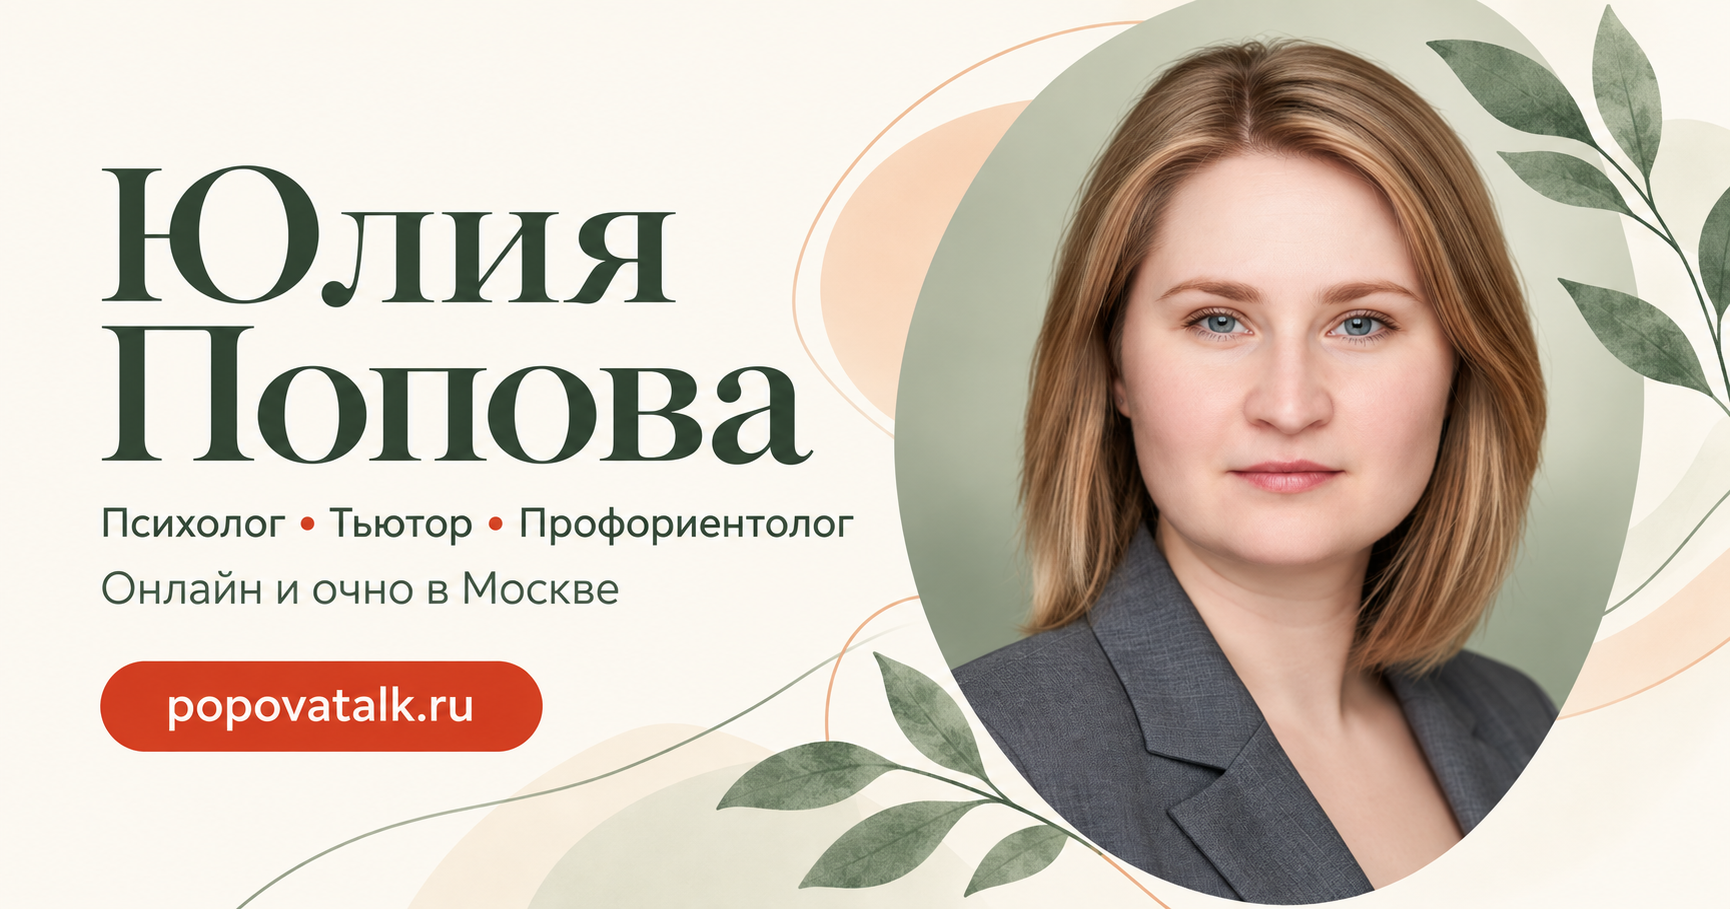
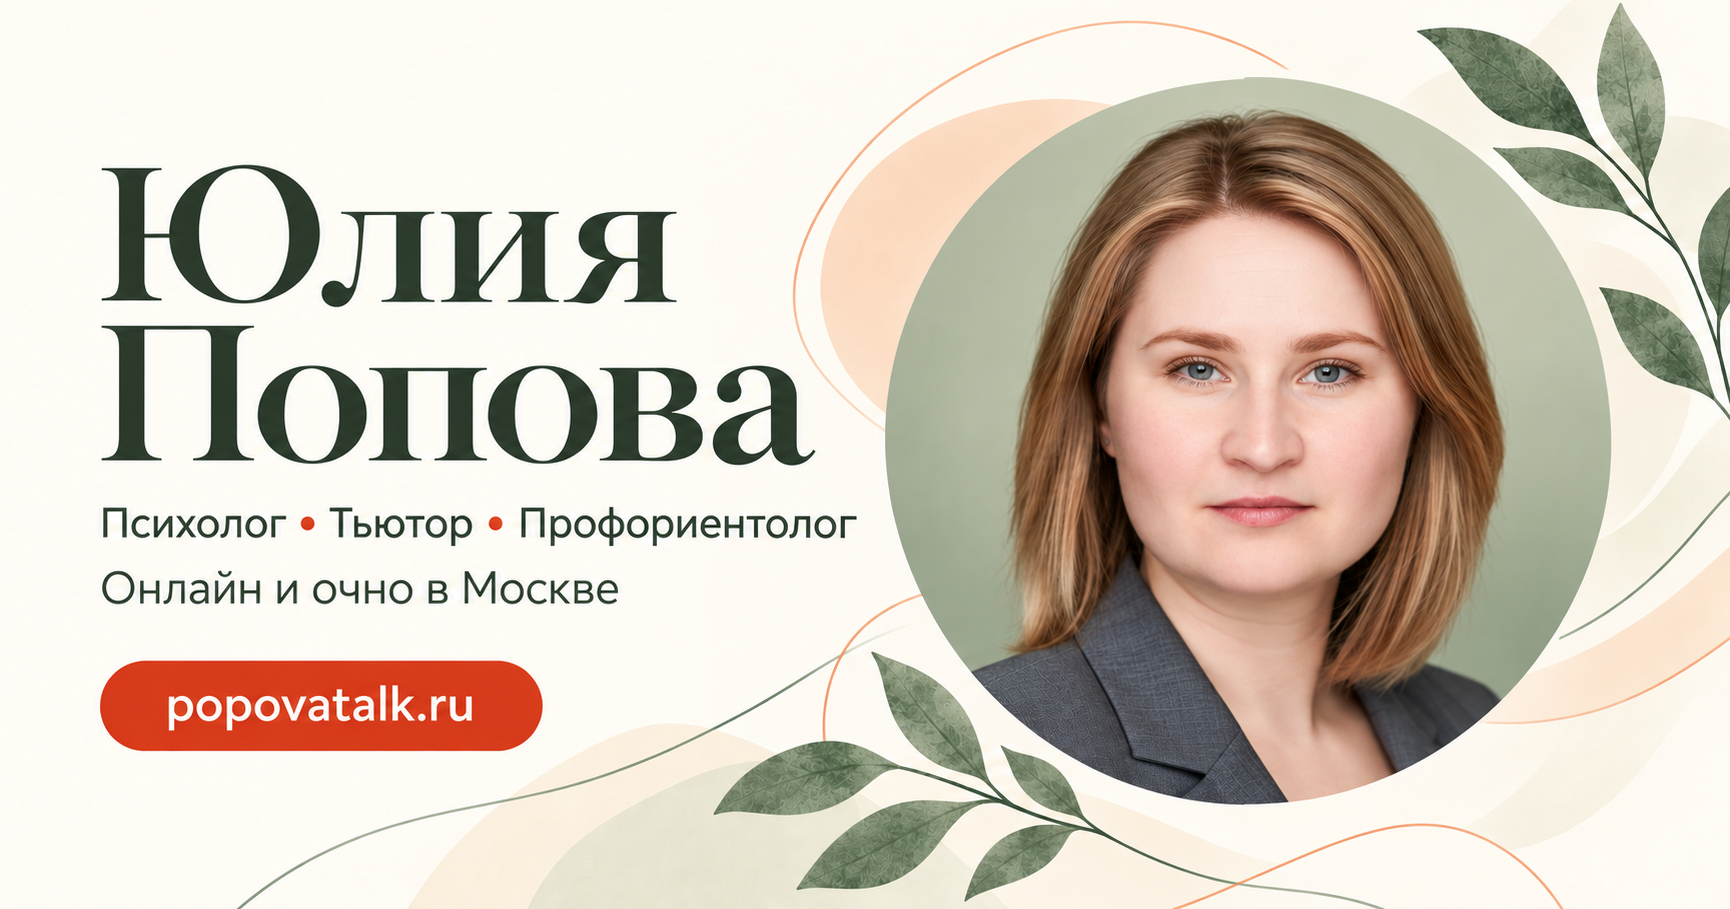
Use circular portraits and botanical artwork on the site and social cards

diff --git a/src/components/Hero.jsx b/src/components/Hero.jsx
@@ -27,10 +27,12 @@ export default function Hero() {
                             <span className="ml-2 max-w-32 text-xs leading-relaxed text-neutral-600">Начать можно<br />с простого сообщения</span>
                         </div>
                     </motion.div>
-                    <motion.div initial={false} animate={{ opacity: 1, y: 0 }} transition={{ duration: 0.7, delay: 0.15 }} className="relative mx-auto w-full max-w-[460px] px-5 pb-8 sm:px-8">
-                        <div aria-hidden="true" className="absolute inset-x-5 bottom-4 top-3 rotate-6 rounded-[48%_48%_38%_38%] border border-primary/25 sm:inset-x-8" />
-                        <div className="relative aspect-[0.92] overflow-hidden rounded-[48%_48%_38%_38%] bg-primary-light/35 ring-8 ring-white/60">
-                            <img src="/images/popova-001.png" alt="Юлия Попова, психолог и тьютор" fetchPriority="high" width="512" height="512" className="h-full w-full object-cover" />
+                    <motion.div initial={false} animate={{ opacity: 1, y: 0 }} transition={{ duration: 0.7, delay: 0.15 }} className="relative mx-auto w-full max-w-[500px] pb-8">
+                        <div className="relative aspect-square">
+                            <img src="/images/portrait-botanical-frame.png" alt="" aria-hidden="true" width="1024" height="1024" decoding="async" className="pointer-events-none absolute inset-0 h-full w-full object-contain" />
+                            <div id="hero-portrait-circle" className="absolute inset-[9%] overflow-hidden rounded-full bg-primary-light ring-[6px] ring-neutral-50 shadow-[0_12px_40px_-24px_#31513C55]">
+                                <img src="/images/popova-circle-photo.png" alt="Юлия Попова, психолог и тьютор" fetchPriority="high" width="1024" height="1024" decoding="async" className="h-full w-full object-cover" />
+                            </div>
                         </div>
                         <div className="absolute bottom-2 left-0 flex items-center gap-3 rounded-2xl border border-primary-dark/10 bg-white px-5 py-4 shadow-[0_8px_24px_-16px_#31513C55] sm:left-1">
                             <span className="flex h-10 w-10 items-center justify-center rounded-full bg-primary-50 text-primary-dark"><Message size={19} /></span>

diff --git a/scripts/check-build.js b/scripts/check-build.js
@@ -17,7 +17,7 @@ export async function verifyBuild(output = 'dist') {
   const index = await readFile(path.join(output, 'index.html'), 'utf8');
   assert.match(index, /https:\/\/popovatalk\.ru\//);
   assert.match(index, /www\.google\.com\/recaptcha\/api\.js/);
-  for (const asset of ['/images/popova-001.png', '/images/background-pastel.jpg', '/images/popova-video.mp4']) {
+  for (const asset of ['/images/popova-001.png', '/images/popova-circle-photo.png', '/images/portrait-botanical-frame.png', '/images/background-pastel.jpg', '/images/popova-video.mp4']) {
     assert.ok(files.includes(path.join(output, asset)), `Missing ${asset}`);
   }
   for (const match of index.matchAll(/(?:src|href)="(\/assets\/[^"?]+)"/g)) {

diff --git a/SOCIAL_CARDS.md b/SOCIAL_CARDS.md
@@ -1,13 +1,13 @@
 # Карточки PopovaTalk для соцсетей
 
-Созданы 30 сентября 2026 года встроенным **ImageGen** в режиме редактирования с референсами. Использованы исходный портрет Юлии из `public/images/popova-001.png` и первая сгенерированная карточка для единого оформления остальных форматов. Готовые PNG сохранены без последующего масштабирования; ниже указаны их фактические размеры.
+Созданы и обновлены 30 сентября 2026 года встроенным **ImageGen** в режиме редактирования с референсами. По просьбе владельца портрет на всех четырёх карточках помещён в круг; сохранены листья, кремовый фон, зелёные и абрикосовые оттенки из выбранного примера. Использованы исходный портрет Юлии из `public/images/popova-001.png`, пользовательский пример и обновлённая Open Graph-карточка для единого оформления остальных форматов. Готовые PNG сохранены без последующего масштабирования; ниже указаны их фактические размеры.
 
 | Назначение | Файл | Размер |
 |---|---|---|
 | Превью ссылки: Meta/Facebook, Telegram, WhatsApp, VK и другие платформы с Open Graph | [popovatalk-og.png](public/images/social/popovatalk-og.png) | 1730 × 909 |
 | Превью ссылки X/Twitter, формат 2:1 | [popovatalk-twitter.png](public/images/social/popovatalk-twitter.png) | 1774 × 887 |
 | Квадратная публикация: Instagram, Facebook, VK, Telegram | [popovatalk-square.png](public/images/social/popovatalk-square.png) | 1254 × 1254 |
-| Вертикальная история, примерно 9:16 | [popovatalk-story.png](public/images/social/popovatalk-story.png) | 941 × 1672 |
+| Вертикальная история, примерно 9:16 | [popovatalk-story.png](public/images/social/popovatalk-story.png) | 941 × 1671 |
 
 Тексты на карточках: «Юлия Попова», «Психолог • Тьютор • Профориентолог», «Онлайн и очно в Москве», `popovatalk.ru`. Цвета и шрифтовой характер соответствуют обновлённому сайту. На изображениях нет вымышленных отзывов, дипломов и обещаний результата.
 
@@ -16,3 +16,14 @@
 Полные финальные промпты: [docs/social-card-prompts.json](docs/social-card-prompts.json). В промптах указаны желаемые размеры; генератор вернул размеры из таблицы. Проверка сборки сверяет реальные PNG и метаданные, формат 2:1 для X, квадратный формат и предел 5 МБ для каждого файла. Контрольные суммы и размеры сохранены в [manifest.json](public/images/social/manifest.json).
 
 После публикации адреса изображений начинаются с `https://popovatalk.ru/images/social/`. При замене изображения лучше изменить имя файла и ссылки в `src/content/site.js`, чтобы площадки быстрее получили новую карточку.
+
+## Портрет на сайте
+
+Главный экран использует тот же стиль. Круг задаётся в CSS, поэтому ширина и высота портрета остаются равными на телефоне и десктопе. Листья вынесены в отдельный прозрачный слой и не перекрывают лицо.
+
+| Материал | Файл | Размер |
+|---|---|---|
+| Портрет со светлым зелёным фоном, редактирование исходного фото через ImageGen | [popova-circle-photo.png](public/images/popova-circle-photo.png) | 1254 × 1254 |
+| Листья и декоративные линии, ImageGen с прозрачным фоном | [portrait-botanical-frame.png](public/images/portrait-botanical-frame.png) | 1254 × 1254 |
+
+Промпты этих двух материалов: [docs/portrait-prompts.json](docs/portrait-prompts.json). Исходный портрет остаётся в проекте. Проверены круг на ширинах 320, 390, 768, 1024 и 1440 px, прозрачность центра и углов декоративного слоя, отсутствие горизонтального переполнения и ошибок React.

diff --git a/PROJECT_STATUS.md b/PROJECT_STATUS.md
@@ -71,3 +71,11 @@ GitHub `ungattocinereo/Giulia`, его основная ветка `popovatalk_r
 Подтверждены: 41 тест и сборка на Mac; те же тесты и две сборки в изолированной папке Linux, включая серверный `--outDir`; корректность SEO/JSON-LD/изображений/сжатых файлов; подключение React без ошибок, мобильное меню, FAQ и форма с подменённым ответом; основные разделы с отключённым JavaScript. Последующее включение отложенной загрузки видео проверено в локальной сборке и браузере: воспроизведение при переходе к разделу, повтор на мобильном и отключение повтора на десктопе. Реальные сообщения не отправлялись. Preview остаётся на порту 4174.
 
 Владелец явно выбрал оставить подготовленную версию на локалке. В GitHub и на VPS она не опубликована; для публикации нужен новый запрос владельца. Доступа к кабинетам поисковиков нет, отправка sitemap не выполнялась. Появление в поисковой выдаче или ответах LLM не гарантируется технической подготовкой. Полный отчёт — [SEO_READINESS.md](SEO_READINESS.md).
+
+## Последующие локальные изменения — 30 сентября 2026 года
+
+Индивидуальная консультация стоит 5 000 ₽, парная/семейная — 6 000 ₽. Цены обновлены в обоих разделах, JSON-LD и llms-файлах из общих данных.
+
+Портрет главного экрана переведён в круг с одинаковой шириной и высотой; добавлены листья и светлый зелёный фон по выбранному владельцем примеру. Через ImageGen подготовлены новое фото для круговой обрезки и отдельное оформление с прозрачным фоном, а также обновлены все четыре карточки соцсетей с круглыми портретами. Файлы, размеры и промпты — в [SOCIAL_CARDS.md](SOCIAL_CARDS.md).
+
+Проверены сборка и согласованность метаданных с PNG, загрузка портрета и листьев, прозрачность декоративного слоя, отсутствие ошибок React и горизонтального переполнения, круглая форма на ширинах 320–1440 px. Эти изменения относятся только к локальной подготовленной версии.

diff --git a/SEO_READINESS.md b/SEO_READINESS.md
@@ -20,6 +20,7 @@
 - Один H1, русский язык документа, title и description с Москвой и онлайн-консультациями, canonical, настройки предпросмотра изображений в поиске. Основные тексты сохранены; добавлены короткие уточнения о формате встреч. В FAQ исправлены 20 минут и устаревшие названия форматов, добавлен вопрос об очном приёме.
 - JSON-LD: Person, WebSite, WebPage, Service с предложениями и FAQPage. Цены и FAQ берутся из того же файла, что и видимые карточки. «От 30 000 ₽» остаётся минимальной ценой, а не превращается в фиксированную. Уличный адрес, дипломы, рейтинги и отзывы не выдуманы.
 - Open Graph и X/Twitter с абсолютными HTTPS-адресами ImageGen-карточек, alt-текстом и реальными размерами PNG. Дополнительно подготовлены квадрат и история: [SOCIAL_CARDS.md](SOCIAL_CARDS.md).
+- По просьбе владельца все четыре карточки обновлены: круглый портрет и оформление с листьями из выбранного примера. Этот же стиль добавлен на главный экран; форма круга проверена на телефоне, планшете и десктопе.
 - Настоящие `robots.txt` и `sitemap.xml` генерируются при сборке. Карта содержит только существующую главную страницу. Общедоступный контент разрешён для обхода; служебные `/hooks/` и `/api/` исключены из обхода. Это не механизм защиты служебных адресов.
 - `llms.txt` и `llms-full.txt` содержат публичные факты, контакты, услуги и FAQ. Они дополняют обычный HTML; поддержка таких файлов конкретной системой не предполагается.
 - HTML и файлы обнаружения получают свежие Brotli/gzip-копии. Проверка не допускает старую сжатую версию после предварительной генерации HTML.
